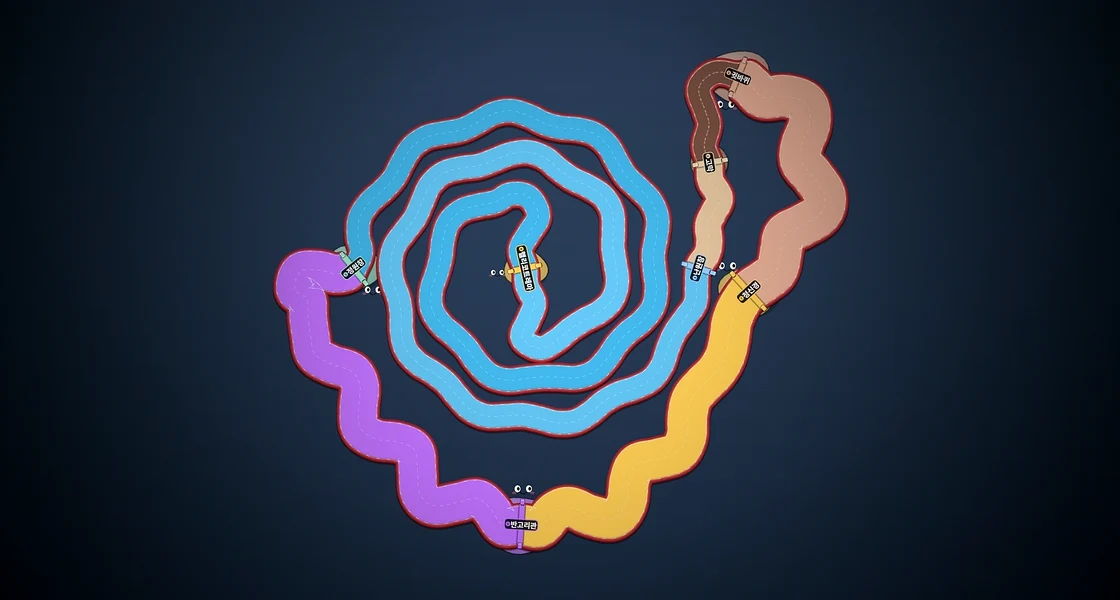
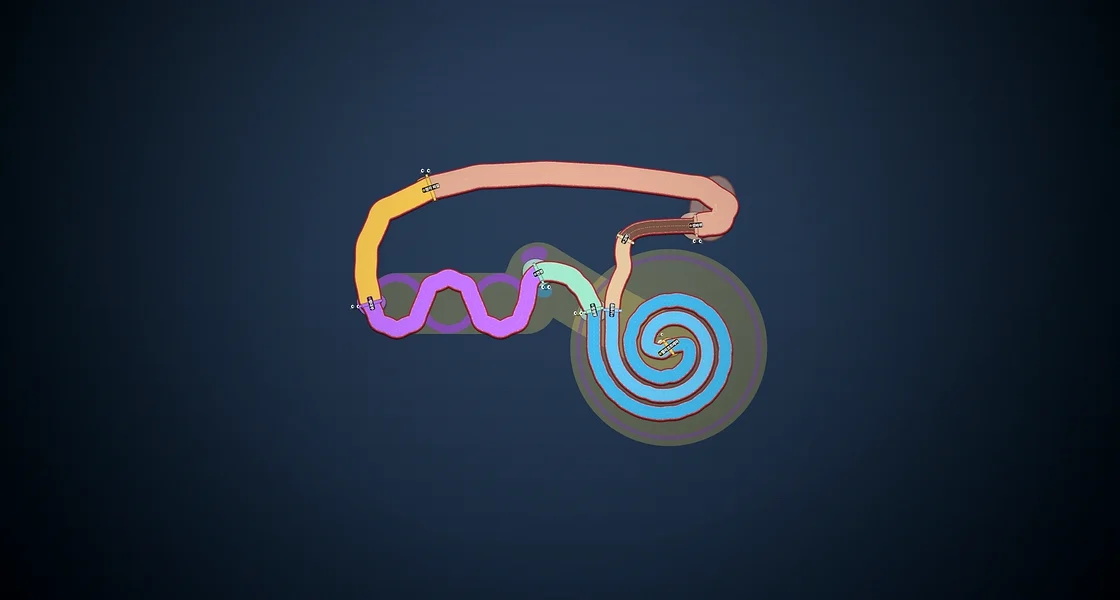
버전 117

Changed region(s): [[0.2188, 0.09, 0.7812, 0.93]]

diff --git a/index.html b/index.html
@@ -2105,6 +2105,10 @@ Object.assign(EN, {
 '남은 물을 빨아들이고 나머지를 내보냅니다.': 'It absorbs the remaining water and sends the rest out.',
 
 // ── 호흡계
+'전정': 'Vestibule', '기울기 감각': 'Sense of tilt', '팽대부': 'Ampulla', '회전 감각': 'Sense of rotation', '청각 피질': 'Auditory cortex',
+'Utricle and saccule': 'Utricle and saccule',
+'달팽이관과 반고리관 사이의 방. 머리가 기울어진 것을 느낍니다': 'The chamber between the cochlea and the canals. It senses when your head tilts',
+'타원주머니와 구형주머니가 있는 방. 속의 작은 돌(이석)이 기울기와 속도를 알려 줍니다.': 'The chamber with the utricle and saccule. Tiny stones inside sense tilt and speed.',
 '섬모체': 'Ciliary body', '빛을 받는 벽': 'The wall that catches light', '맹점 쪽으로': 'Toward the blind spot', '공막 · 혈관막': 'Sclera and choroid',
 '눈을 감싸는 벽': 'The wall around the eye', '공막': 'Sclera',
 '수정체를 붙잡고 두께를 바꾸는 근육 고리 — 여기서 망막으로 올라갑니다': 'The muscle ring that changes the lens thickness; from here you climb onto the retina',
@@ -2249,6 +2253,16 @@ Object.assign(EN, {
    맨 위가 지금 판이다. 아래 CHANGES[0].v 가 화면 왼쪽 아래 숫자가 된다 —
    판을 올릴 때는 여기 한 줄만 새로 얹으면 된다. */
 const CHANGES = [
+    { v: 117, d: '9월 11일', t: [
+        '청각계를 속귀 그림처럼 새로 만들었다 — 귓바퀴 → 고막 → 귓속뼈 → 달팽이관 이중 나선 → 전정 → 반고리관 → 청신경',
+        'The hearing map was rebuilt like the inner ear: outer ear, eardrum, ossicles, the cochlea double spiral, vestibule, semicircular canals and nerve',
+        '달팽이관은 전정계로 감아 들어가 꼭대기에서 돌아 고실계로 감아 나온다 — 한 바퀴가 74초에서 60초로',
+        'In the cochlea you spiral in along the vestibular duct and back out along the tympanic duct; a lap now takes 60 s instead of 74 s',
+        '반고리관 고리 셋 · 타원주머니 · 구형주머니 · 떨리는 고막 그림',
+        'Drawings of the three canal loops, utricle, saccule and a vibrating eardrum',
+        '시각계 시신경 그림을 도로에 맞췄다',
+        'The optic nerve drawing now follows the road'
+    ] },
     { v: 116, d: '9월 11일', t: [
         '사구체 맵을 네프론 서킷으로 새로 만들었다 — 신장동맥 → 사구체 → 세뇨관 → 헨레고리 → 다리 건너 집합관',
         'The glomerulus map is now the Nephron Circuit: renal artery, glomerulus, tubules, loop of Henle, then a bridge to the collecting duct',
@@ -3063,91 +3077,57 @@ const SYSTEMS = {
         island: 'ear',
         id: 'auditory', name: '청각계 나선', laps: 3, closed: true, halfWidth: 178,
         grass: ['#3a4a68', '#26334a'], accent: '#7fd4ff',
-        /* 달팽이관은 관 두 개가 나란히 감겨 올라간다.
-           소리는 전정계로 감아 올라가 꼭대기의 작은 구멍을 지나 고실계로 내려온다.
-           들어가는 길과 나오는 길이 처음부터 나뉘어 있고, 서로 사이에 끼어 있다.
-           이 코스가 처음부터 끝까지 나선인 이유다 — 실제 귀가 그렇게 생겼다.
-
-           나선의 점은 각도가 아니라 거리로 고르게 찍었다. 각도로 찍으면
-           바깥은 성글고 안쪽은 촘촘해져 벽이 울퉁불퉁해진다. */
+        /* 2026-09-11 다시 만듦 — 사용자가 준 속귀 그림("청각계 완벽한 이미지").
+           귓바퀴 → 외이도 → 고막 → 귓속뼈 → 난원창 → 달팽이관 이중 나선(전정계로 1바퀴 감아 들어가 헬리코트레마에서
+           돌아 고실계로 1.5바퀴 감아 나옴) → 정원창 → 전정 → 반고리관(반원 셋) → 팽대부 → 청신경 → 청각 피질.
+           예전 '청각계 나선'은 나선만 두 겹으로 길게 감겨(한 바퀴 74초) 반고리관 · 전정이 보이지 않았다.
+           나선 · 반원은 earplan2.py 가 계산해 겹침을 미리 재고 만든 점이다. 크기 비율 S = 1.12. */
+        landmarks: [
+            { type: 'ear', at: [2800, 2200], r: 3360, s: 1.12 }
+        ],
         flow: [
-            { name: '귓바퀴', at: [4450, 330], color: '#e8b4a0', role: '소리 모으기', blob: 280,
+            { name: '귓바퀴', at: [5040, 968], color: '#e8b4a0', role: '소리 모으기', blob: 280,
               info: '주름진 귓바퀴가 사방의 소리를 모아 귓구멍으로 흘려보냅니다.',
-              seg: { name: '외이도', color: '#d99f88', wMul: .55, tunnel: true,
-                     desc: '2.5센티미터쯤 되는 좁은 통로. 귀지가 먼지를 붙잡습니다' },
-              // 귓바퀴는 코스가 되돌아 나가는 지점이다. 원호로 펴서 넓은 코너로 만든다.
-              via: [[4249, 296], [4108, 429], [4165, 628], [4198, 755], [4155, 931]] },
+              seg: { name: '외이도', color: '#d99f88', wMul: .55, tunnel: true, desc: '2.5센티미터쯤 되는 좁은 통로. 귀지가 먼지를 붙잡습니다' },
+              via: [[4844, 974], [4648, 979], [4452, 990], [4256, 1002], [4032, 1058]] },
 
-            { name: '고막', at: [4200, 1080], color: '#f0d9b5', role: '진동으로 바꾸기', blob: 0,
+            { name: '고막', at: [3875, 1192], color: '#f0d9b5', role: '진동으로 바꾸기', blob: 0,
               chamber: { w: 250, h: 240, wall: 34, tint: '#f6e6c9' },
               pump: { power: .55, label: '고막 진동!', desc: '공기의 떨림이 얇은 막을 통째로 떨게 만듭니다.' },
               info: '두께 0.1밀리미터의 얇은 막. 공기의 떨림을 그대로 받아 진동으로 바꿉니다.',
-              seg: { name: '귓속뼈', color: '#e6c9a8', wMul: .62,
-                     desc: '망치뼈 · 모루뼈 · 등자뼈. 지렛대처럼 이어져 진동을 스무 배로 키웁니다' },
-              via: [[4210, 1235], [4293, 1387], [4236, 1517], [4190, 1627], [4201, 1766],
-                   [4178, 1882]] },
+              seg: { name: '귓속뼈', color: '#e6c9a8', wMul: .62, desc: '망치뼈 · 모루뼈 · 등자뼈. 지렛대처럼 이어져 진동을 스무 배로 키웁니다' },
+              via: [[3830, 1416], [3853, 1662], [3763, 1886], [3685, 2110]] },
 
-            { name: '난원창', at: [4100, 2000], color: '#9fd0ff', role: '20배 증폭', blob: 0,
+            { name: '난원창', at: [3658, 2368], color: '#9fd0ff', role: '20배 증폭', blob: 0,
               pump: { power: .9, label: '20배 증폭!', desc: '귓속뼈 셋이 지렛대로 힘을 키워 액체 속으로 밀어 넣습니다.' },
               info: '귓속뼈가 달팽이관의 문을 두드립니다. 공기의 떨림이 여기서 액체의 물결이 됩니다.',
-              seg: { name: '전정계', color: '#6ec6f2', wMul: .55,
-                     desc: '달팽이관을 감아 올라가는 길. 액체가 물결치며 안쪽으로 밀려 들어갑니다' },
-              via: [[4089, 2153], [4078, 2305], [3989, 2436], [3901, 2560], [3841, 2695],
-                   [3789, 2845], [3696, 2969], [3555, 3043], [3407, 3092], [3279, 3164],
-                   [3158, 3264], [3027, 3335], [2872, 3345], [2718, 3307], [2572, 3279],
-                   [2422, 3286], [2261, 3288], [2118, 3229], [2007, 3116], [1909, 3000],
-                   [1792, 2909], [1658, 2824], [1557, 2706], [1519, 2552], [1516, 2397],
-                   [1494, 2258], [1443, 2113], [1424, 1958], [1458, 1808], [1549, 1679],
-                   [1638, 1559], [1699, 1423], [1766, 1278], [1881, 1173], [2028, 1129],
-                   [2186, 1108], [2319, 1062], [2463, 1007], [2618, 987], [2766, 1037],
-                   [2888, 1136], [3008, 1221], [3144, 1286], [3278, 1376], [3355, 1511],
-                   [3365, 1672], [3361, 1819], [3382, 1965], [3400, 2123], [3355, 2274],
-                   [3245, 2381], [3110, 2452], [2988, 2532], [2868, 2630], [2723, 2699],
-                   [2568, 2606], [2627, 2447], [2677, 2302], [2610, 2150]] },
+              seg: { name: '전정계', color: '#6ec6f2', wMul: .55, desc: '달팽이관을 감아 올라가는 길. 액체가 물결치며 안쪽으로 밀려 들어갑니다' },
+              via: [[3658, 2536], [3658, 2704], [3658, 2984], [3732, 3263], [3884, 3498], [4112, 3676], [4252, 3721], [4390, 3767], [4673, 3755], [4935, 3639], [5132, 3431], [5228, 3162], [5202, 2881], [5049, 2638], [4806, 2504], [4523, 2517], [4304, 2689], [4250, 2963], [4464, 3050], [4549, 3008]] },
 
-            { name: '헬리코트레마', at: [2600, 2000], color: '#ffd166', role: '꼭대기 통로', blob: 190,
+            { name: '헬리코트레마', at: [4593, 2984], color: '#ffd166', role: '꼭대기 통로', blob: 190,
               info: '달팽이관 꼭대기에 뚫린 작은 구멍. 감아 올라온 물결이 여기서 방향을 바꿔 되돌아 내려갑니다.',
-              seg: { name: '고실계', color: '#4fb8e8', wMul: .55,
-                     desc: '감아 내려오는 길. 바닥의 유모세포가 물결을 읽어 전기 신호로 바꿉니다' },
-              via: [[2553, 1841], [2628, 1697], [2713, 1542], [2628, 1378], [2470, 1353],
-                   [2344, 1420], [2193, 1452], [2045, 1496], [1930, 1601], [1880, 1755],
-                   [1862, 1905], [1826, 2044], [1778, 2196], [1783, 2354], [1867, 2489],
-                   [1984, 2591], [2087, 2695], [2175, 2818], [2291, 2930], [2441, 2976],
-                   [2599, 2961], [2739, 2948], [2887, 2948], [3046, 2953], [3194, 2903],
-                   [3306, 2791], [3393, 2664], [3494, 2557], [3616, 2460], [3711, 2334],
-                   [3739, 2180], [3723, 2025], [3713, 1877], [3738, 1726], [3750, 1567],
-                   [3696, 1421], [3588, 1306], [3479, 1200], [3400, 1076], [3321, 937],
-                   [3205, 834], [3061, 791], [2899, 775], [2764, 738], [2625, 671],
-                   [2471, 628], [2319, 654], [2179, 730], [2045, 793], [1896, 822],
-                   [1741, 856], [1612, 943], [1525, 1076], [1454, 1212], [1356, 1322],
-                   [1239, 1428], [1154, 1561], [1142, 1720], [1170, 1867]] },
+              seg: { name: '고실계', color: '#4fb8e8', wMul: .55, desc: '감아 내려오는 길. 바닥의 유모세포가 물결을 읽어 전기 신호로 바꿉니다' },
+              via: [[4637, 2959], [4912, 2943], [4912, 3217], [4720, 3424], [4576, 3449], [4433, 3475], [4168, 3358], [4000, 3136], [3950, 2862], [3991, 2719], [4030, 2575], [4124, 2464], [4218, 2352], [4471, 2224], [4620, 2211], [4768, 2198], [5041, 2276], [5161, 2364], [5281, 2450], [5440, 2678], [5523, 2955], [5519, 3104], [5515, 3252], [5463, 3396], [5412, 3541], [5240, 3768], [5124, 3855], [5006, 3943], [4866, 3995], [4726, 4047], [4573, 4058], [4421, 4069], [4146, 4014], [3890, 3890], [3778, 3796], [3667, 3702], [3582, 3580], [3496, 3459], [3442, 3317], [3389, 3174], [3359, 2984], [3359, 2704], [3359, 2536]] },
 
-            { name: '정원창', at: [1100, 2000], color: '#a8e6cf', role: '압력 빼기', blob: 240,
+            { name: '정원창', at: [3359, 2368], color: '#a8e6cf', role: '압력 빼기', blob: 240,
               info: '액체는 눌리지 않습니다. 들어온 만큼 이 막이 밖으로 밀려나며 압력을 빼 줍니다.',
-              seg: { name: '반고리관', color: '#c77dff', wMul: .9,
-                     desc: '서로 직각으로 놓인 관 세 개. 몸이 어느 쪽으로 도는지 알아냅니다' },
-              via: [[958, 2049], [796, 2016], [634, 2031], [591, 2190], [695, 2265],
-                   [706, 2428], [729, 2597], [764, 2747], [906, 2835], [1088, 2899],
-                   [1158, 3028], [1144, 3224], [1161, 3395], [1296, 3487], [1495, 3516],
-                   [1635, 3588], [1658, 3770], [1678, 3967], [1802, 4069], [2009, 4038],
-                   [2180, 4006], [2296, 4098], [2408, 4247]] },
+              seg: { name: '전정', color: '#a8e6cf', wMul: .8, desc: '달팽이관과 반고리관 사이의 방. 머리가 기울어진 것을 느낍니다' },
+              via: [[3275, 2200], [3192, 2032], [3080, 1920], [2968, 1808], [2688, 1730]] },
 
-            { name: '반고리관', at: [2561, 4233], color: '#c77dff', role: '평형 감각', blob: 300,
+            { name: '전정', at: [2442, 1752], color: '#a8e6cf', role: '기울기 감각', blob: 280,
+              info: '타원주머니와 구형주머니가 있는 방. 속의 작은 돌(이석)이 기울기와 속도를 알려 줍니다.',
+              seg: { name: '반고리관', color: '#c77dff', wMul: .7, desc: '서로 직각으로 놓인 관 세 개. 몸이 어느 쪽으로 도는지 알아냅니다' },
+              via: [[2307, 1898], [2274, 2077], [2240, 2256], [2177, 2406], [2116, 2557], [1964, 2619], [1814, 2682], [1664, 2619], [1513, 2557], [1452, 2406], [1389, 2256], [1326, 2106], [1264, 1955], [1113, 1893], [963, 1830], [813, 1893], [662, 1955], [600, 2106], [538, 2256], [475, 2406], [413, 2557], [262, 2619], [112, 2682], [-38, 2619], [-189, 2557], [-251, 2406]] },
+
+            { name: '팽대부', at: [-314, 2256], color: '#c77dff', role: '회전 감각', blob: 240,
               info: '소리와는 다른 일을 합니다. 세 관 속 액체가 출렁이는 방향으로 몸의 회전을 느껴요.',
-              seg: { name: '청신경', color: '#ffd166', wMul: .95,
-                     desc: '유모세포가 만든 전기 신호가 뇌를 향해 달려갑니다' },
-              via: [[2720, 4258], [2851, 4124], [2984, 4080], [3164, 4152], [3360, 4183],
-                   [3474, 4054], [3506, 3843], [3570, 3705], [3742, 3663], [3923, 3606],
-                   [4001, 3469], [4010, 3290], [4046, 3137], [4142, 3019], [4256, 2904],
-                   [4335, 2771], [4373, 2619], [4395, 2469], [4453, 2328]] },
+              seg: { name: '청신경', color: '#ffd166', wMul: .95, desc: '유모세포가 만든 전기 신호가 뇌를 향해 달려갑니다' },
+              via: [[-358, 2032], [-403, 1808], [-392, 1556], [-381, 1304], [-299, 1117], [-216, 931], [-134, 744], [67, 645], [269, 548], [470, 451]] },
 
-            { name: '청신경', at: [4544, 2204], color: '#ffd166', role: '뇌로 전달', blob: 260,
+            { name: '청각 피질', at: [672, 352], color: '#ffd166', role: '뇌로 전달', blob: 260,
               info: '드디어 뇌에 닿습니다. 여기서 비로소 "들린다" 가 됩니다. 그리고 다음 소리가 또 옵니다.',
-              seg: { name: '다음 소리', color: '#e8b4a0', wMul: 1.0,
-                     desc: '귀는 쉬지 않습니다. 자는 동안에도 소리를 계속 받고 있습니다' },
-              via: [[4673, 2115], [4787, 2016], [4826, 1843], [4859, 1707], [5003, 1630],
-                   [5172, 1522], [5207, 1366], [5105, 1202], [5000, 1071], [5005, 930],
-                   [5074, 738], [5044, 566], [4865, 501], [4672, 511], [4570, 420]] }
+              seg: { name: '다음 소리', color: '#e8b4a0', wMul: 1.0, desc: '귀는 쉬지 않습니다. 자는 동안에도 소리를 계속 받고 있습니다' },
+              via: [[933, 288], [1195, 225], [1456, 162], [1736, 148], [2016, 134], [2296, 119], [2576, 106], [2856, 119], [3136, 134], [3416, 148], [3696, 162], [3957, 195], [4219, 229], [4480, 262], [4704, 296], [4928, 330], [5152, 363], [5348, 498], [5544, 632], [5488, 772], [5432, 912], [5236, 940]] }
         ],
         pickups: [
             { icon: '음파', name: '음파',      color: '#6ec6f2', effect: 'turbo', img: 'rbc',
@@ -6126,7 +6106,7 @@ function drawEye(g, t, i, S) {
     const Q = (x, y) => [(x - 2600) * S, (y - 2400) * S];
     const R = 1700 * S;
     g.save(); g.lineJoin = 'round'; g.lineCap = 'round';
-    const [a1, b1] = Q(4200, 2650), [a2, b2] = Q(5300, 2450), [a3, b3] = Q(5800, 2250);   // 시신경 다발
+    const [a1, b1] = Q(4263, 2753), [a2, b2] = Q(4800, 3000), [a3, b3] = Q(5550, 2330);   // 시신경 다발 — 도로(맹점 → 시각 교차)를 따라
     g.strokeStyle = 'rgba(240,210,120,.5)'; g.lineWidth = 260 * S;
     g.beginPath(); g.moveTo(a1, b1); g.quadraticCurveTo(a2, b2, a3, b3); g.stroke();
     g.fillStyle = 'rgba(245,245,250,.55)'; g.beginPath(); g.arc(0, 0, R + 260 * S, 0, TAU); g.fill();   // 공막
@@ -6153,6 +6133,48 @@ function drawEye(g, t, i, S) {
     g.fillStyle = 'rgba(160,80,70,.6)';                                                           // 섬모체
     [-1, 1].forEach(sd => { g.beginPath(); g.ellipse(lx, ly + sd * 520 * S, 110 * S, 150 * S, 0, 0, TAU); g.fill(); });
     drawFace(g, 0, 0, 380 * S, i);                                                                // 비워 둔 한가운데
+    g.restore();
+}
+
+/* ---- 속귀 그림 (사용자가 준 속귀 그림) ----
+   도로 아래에 깔린다. earplan2.py 의 기준 좌표를 크기 비율 S 로 줄여 코스와 1:1.
+   노란 뼈 미로 위에 보라색 관 : 달팽이관 껍질 · 전정의 타원주머니와 구형주머니 · 반고리관 고리 셋.
+   도로는 반고리관의 반원만 달리고, 나머지 반원은 그림이 채워 그림 속 '고리' 로 보이게 한다.
+   오른쪽 위에는 귓바퀴와 고막. 고막은 소리에 맞춰 살짝 떤다. */
+function drawEar(g, t, i, S) {
+    const Q = (x, y) => [(x - 2800) * S, (y - 2200) * S];
+    g.save(); g.lineJoin = 'round'; g.lineCap = 'round';
+    const line = (ps, w, col) => {
+        g.strokeStyle = col; g.lineWidth = w * S; g.beginPath();
+        ps.forEach(([x, y], k) => { const [a, b] = Q(x, y); k ? g.lineTo(a, b) : g.moveTo(a, b); }); g.stroke();
+    };
+    // 뼈 미로 (노랑) : 달팽이관 · 전정 · 반고리관을 한 덩어리로 감싼다
+    line([[4400, 2900], [3300, 2300], [2480, 1800], [2300, 2250], [1920, 2250], [1160, 2250], [400, 2250]], 900, 'rgba(240,214,110,.28)');
+    let [cx, cy] = Q(4400, 2900);
+    g.fillStyle = 'rgba(240,214,110,.28)'; g.beginPath(); g.arc(cx, cy, 1450 * S, 0, TAU); g.fill();
+    // 달팽이관 껍질
+    g.strokeStyle = 'rgba(120,70,170,.45)'; g.lineWidth = 60 * S;
+    g.beginPath(); g.arc(cx, cy, 1330 * S, 0, TAU); g.stroke();
+    // 반고리관 고리 셋 (도로는 반원, 나머지 반은 그림)
+    [[1920, 2250], [1160, 2250], [400, 2250]].forEach(([x, y]) => {
+        const [a, b] = Q(x, y);
+        g.strokeStyle = 'rgba(150,80,210,.75)'; g.lineWidth = 120 * S;
+        g.beginPath(); g.arc(a, b, 380 * S, 0, TAU); g.stroke();
+    });
+    // 전정 : 타원주머니 · 구형주머니
+    const [vx, vy] = Q(2480, 1800);
+    g.fillStyle = 'rgba(150,80,210,.6)';
+    g.beginPath(); g.ellipse(vx - 60 * S, vy - 250 * S, 200 * S, 130 * S, -.3, 0, TAU); g.fill();
+    g.fillStyle = 'rgba(60,150,200,.6)';
+    g.beginPath(); g.ellipse(vx + 60 * S, vy + 250 * S, 150 * S, 110 * S, .3, 0, TAU); g.fill();
+    // 귓바퀴 (살색) · 고막 (떨림)
+    const [px, py] = Q(5050, 850);
+    g.fillStyle = 'rgba(232,180,160,.55)'; g.strokeStyle = 'rgba(150,90,70,.5)'; g.lineWidth = 30 * S;
+    g.beginPath(); g.ellipse(px, py, 330 * S, 480 * S, .2, 0, TAU); g.fill(); g.stroke();
+    g.beginPath(); g.ellipse(px + 30 * S, py + 20 * S, 170 * S, 280 * S, .2, 0, TAU); g.stroke();
+    const [dx, dy] = Q(3760, 1300), wob = 1 + Math.sin(t * 18) * .04;
+    g.fillStyle = 'rgba(240,217,181,.8)'; g.beginPath(); g.ellipse(dx, dy, 90 * S * wob, 230 * S, .5, 0, TAU); g.fill();
+    drawFace(g, cx, cy, 260 * S, i);                  // 달팽이관 한가운데
     g.restore();
 }
 
@@ -6323,6 +6345,8 @@ function drawLandmarks(g, inView) {
             drawNephron(g, t, i, lm.s || 1);
         } else if (lm.type === 'eye') {
             drawEye(g, t, i, lm.s || 1);
+        } else if (lm.type === 'ear') {
+            drawEar(g, t, i, lm.s || 1);
         }
         g.restore();
     });
